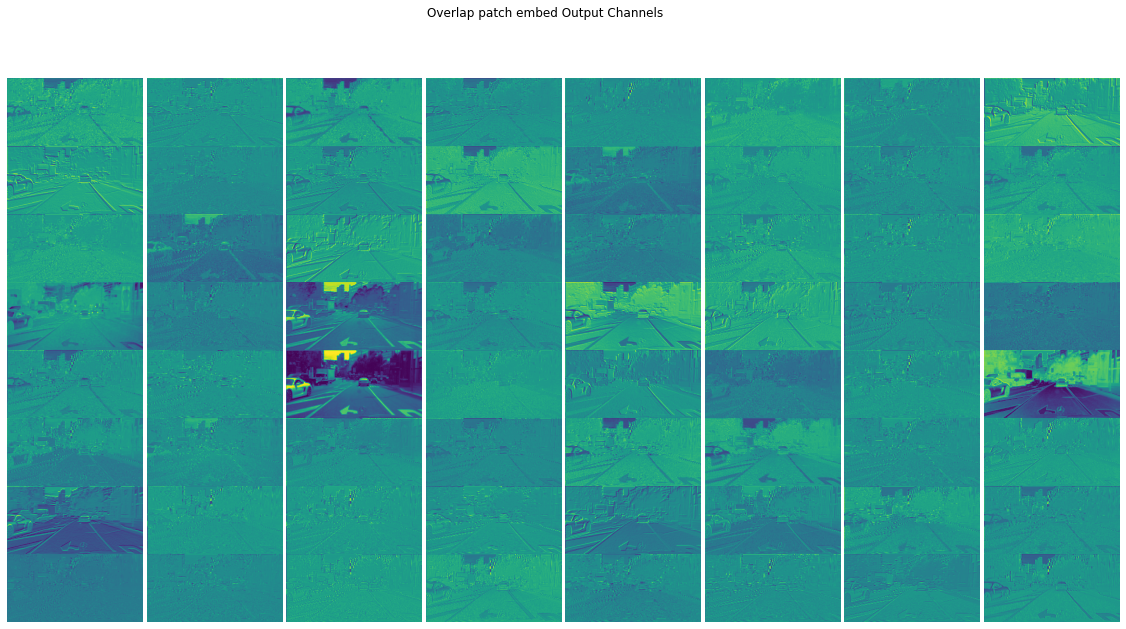
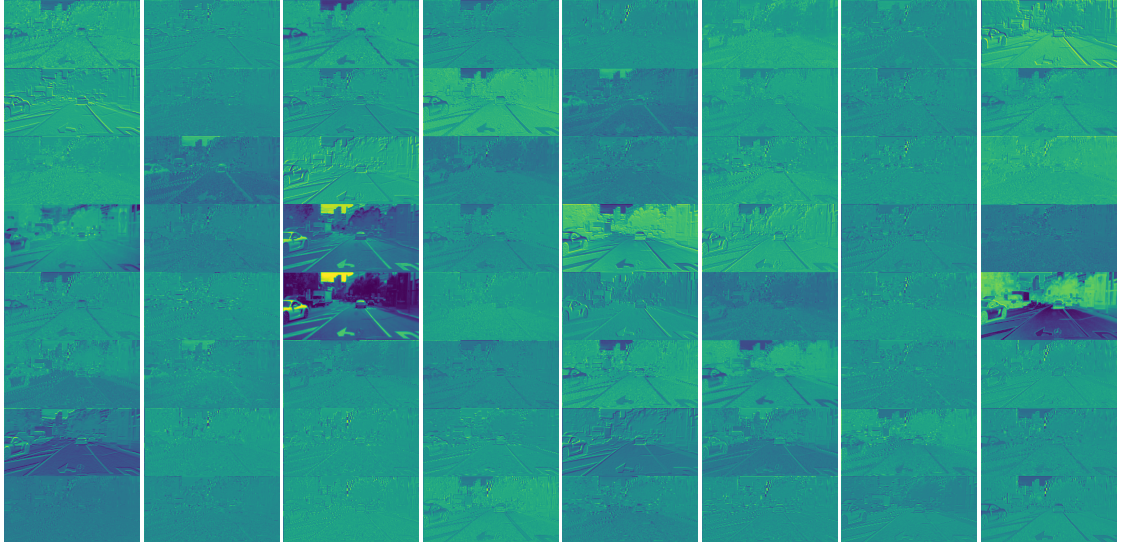
temp commit patch embeddings and attention

diff --git a/Segformer_deepdive.md b/Segformer_deepdive.md
@@ -27,8 +27,9 @@ Repo contains content created for `SEGFORMERS COURSE` offered at [thinkautonomou
 - [Segformers](#segformers)
     - [Overlap Patch Embedding](#overlap-patch-embedding)
     - [Efficient self-attention](#efficient-self-attention)
+    - [Attention Intuition in images]()
     - [Mix FFN](#mix-ffn)
-    - [Transformer block](#transformer-block)
+    - [Encoder]()
     - [All MLP Decoder](#all-mlp-decoder)
 - [HyperParameters](#hyperparameters)
 - [Results](#results)
@@ -170,11 +171,44 @@ Gradients are nicer in CE compared to Dice loss
 - As seen above, there are 3 main parts in Transformer block of Encoder - Overlap Patch Embedding, Efficient self-attention and Mix-FFN. We'll cover these modules one by one.
 
 ### Overlap Patch Embedding
-![](images/presentation/overlap_patch_embeddings_output.png)
+- Entire image is split into patches which are passed to consequent Transformer blocks
+- This layer acts like Embedding layer and uses Convolution layers
+- Intuitively, the operations behind Overlap patch embedding is as follows :
+
+![overlap_patch_embeddings](images/presentation/overlap_patch_embeddings.png)
+
+- **The authors note that smaller patch sizes are preferrable to segmentation tasks (7 for 1st stage and 3 for later stages) and need for overlapping patches to inject some continuity**
+
+![Stage 1 Overlap Patch Embedding Channels](images/presentation/overlap_patch_embeddings_output.png)
+- Initial stage outputs indicate low-level features like edge detection and more abstract features in later stages
 
 
 ### Efficient self-attention
-![](images/presentation/Attention_mechanism.png)
+- In the original Transformer paper, authors proposed Query, Key and Values using same dimension. That is referred to as Scaled Dot Product Attention (scaled due to normalizatio applied)
+- *But Dot Product Attention operation is O(N<sup>2</sup>)), hence very costly for Images of higher resolution**
+- In Efficient Self-Attention, we use a <u>sequence reduction process</u> to reduce the spatial dimension of the key and value by factor R, hence complexity reduces to **O(N<sup>2</sup> / <sub>R</sub>)**
+
+![efficient_self_attention_block_diagram](images/presentation/efficient_self_attention_block_diagram.png)
+
+
+### Attention Intuition in images
+- In segmentation, we're trying to build classes together. So <u>attention will try to group similar classes together, car with car and tree with tree </u>. If depth estimation, pixels containing relevant features will have more weights.
+- Attention helps identify related context at location. If you’re looking for car, what is related parts in the entire images
+- `Query and key are two different spaces (key is more abstract feature map in efficient version), how to group low level features to get more meaningful vut abstract feature. Attention serves as bridge`
+
+![Attention_mechanism](images/presentation/Attention_mechanism.png)
+
+- Simplistically, we can consider  
+
+
+- [Notebook](finalContent/Efficient_self_attention_intuition.ipynb) explains Efficient Self Attention step by step for 
+
+
+Attention intuition - Andrej Karpathy Tesla AI video 2021 from 58:00 to 01:03 5 minutes
+Different types of attention
+
+
+
 
 
 ### Mix FFN
